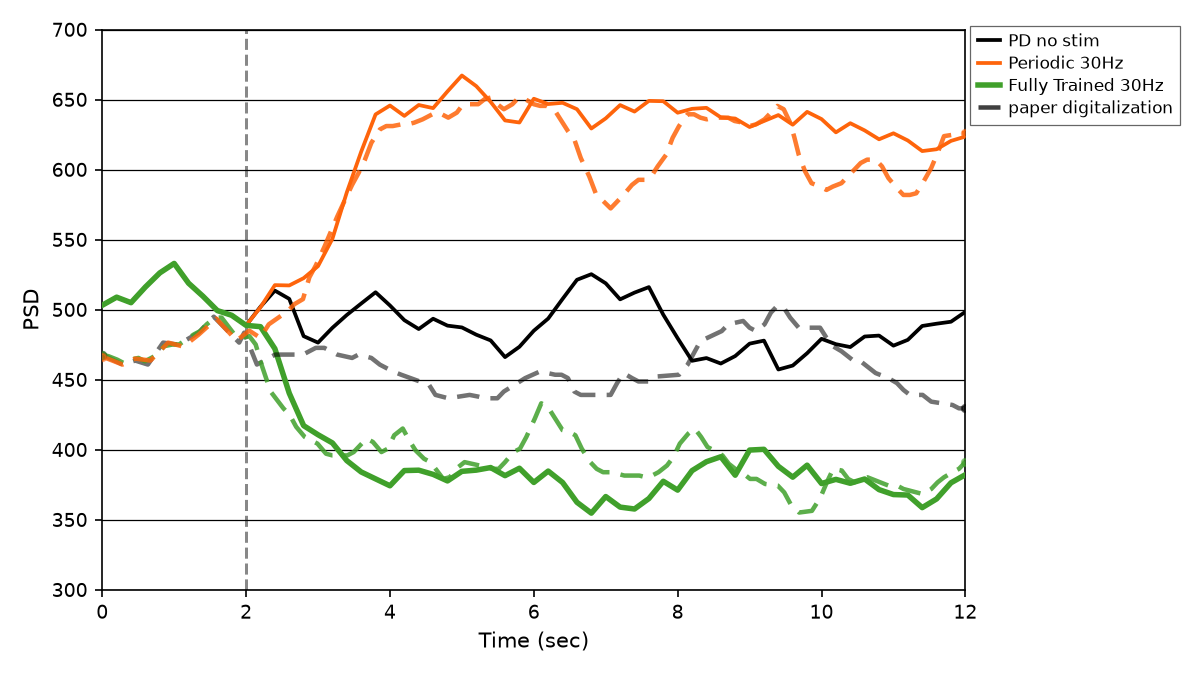
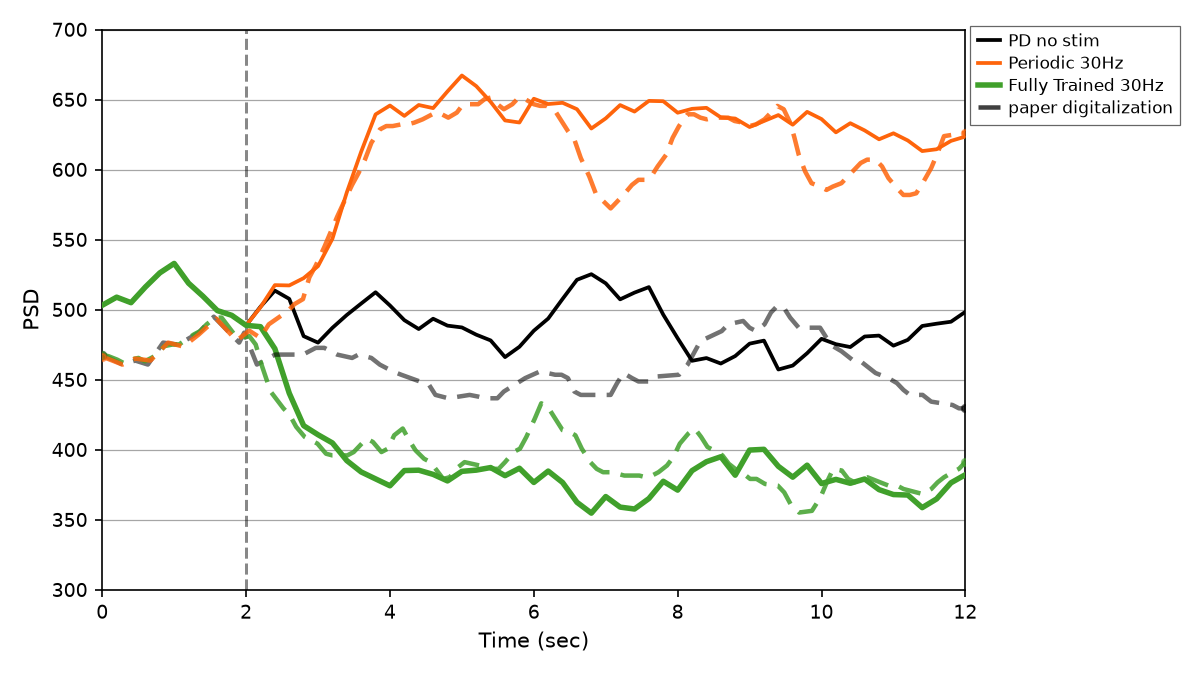
Re-render every panel with the grid back at its own alpha
Plot-only re-render from cached series after the themed-grid fix: new
light/dark PNG pairs for every panel, with the figure pages, trackers,
showcase, and README pointing at them. Gates and the digitized_v3
redraws (no grid) are unchanged.

diff --git a/docs/controllers/README.md b/docs/controllers/README.md
@@ -58,7 +58,7 @@ I built these from the paper text and figures. Mehregan and Ravivarapu have no r
 
 | Paper (digitized, my redraw) | My replication |
 |:-----:|:---------------:|
-| <picture><source media="(prefers-color-scheme: dark)" srcset="ddpg/figures/images/1b/digitized_v3_dark.png"><img src="ddpg/figures/images/1b/digitized_v3.png" alt="Digitized from Fig. 1b of Mehregan et al. (2024) (our redraw)"></picture> | <picture><source media="(prefers-color-scheme: dark)" srcset="ddpg/figures/images/1b/gpi_psd_v5_dark.png"><img src="ddpg/figures/images/1b/gpi_psd_v5.png" alt="Replication Fig. 1b"></picture> |
+| <picture><source media="(prefers-color-scheme: dark)" srcset="ddpg/figures/images/1b/digitized_v3_dark.png"><img src="ddpg/figures/images/1b/digitized_v3.png" alt="Digitized from Fig. 1b of Mehregan et al. (2024) (our redraw)"></picture> | <picture><source media="(prefers-color-scheme: dark)" srcset="ddpg/figures/images/1b/gpi_psd_v6_dark.png"><img src="ddpg/figures/images/1b/gpi_psd_v6.png" alt="Replication Fig. 1b"></picture> |
 
 **Notes:** Mean PSD over seeds 0-9, 10 s segment, native Python plant port of the Kumaravelu model.
 
@@ -72,7 +72,7 @@ I built these from the paper text and figures. Mehregan and Ravivarapu have no r
 
 | Paper (digitized, my redraw) | My replication |
 |:-----:|:---------------:|
-| <picture><source media="(prefers-color-scheme: dark)" srcset="ddpg/figures/images/2a/digitized_v3_dark.png"><img src="ddpg/figures/images/2a/digitized_v3.png" alt="Digitized from Fig. 2a of Mehregan et al. (2024) (our redraw)"></picture> | <picture><source media="(prefers-color-scheme: dark)" srcset="ddpg/figures/images/2a/beta_power_v3_dark.png"><img src="ddpg/figures/images/2a/beta_power_v3.png" alt="Replication Fig. 2a"></picture> |
+| <picture><source media="(prefers-color-scheme: dark)" srcset="ddpg/figures/images/2a/digitized_v3_dark.png"><img src="ddpg/figures/images/2a/digitized_v3.png" alt="Digitized from Fig. 2a of Mehregan et al. (2024) (our redraw)"></picture> | <picture><source media="(prefers-color-scheme: dark)" srcset="ddpg/figures/images/2a/beta_power_v4_dark.png"><img src="ddpg/figures/images/2a/beta_power_v4.png" alt="Replication Fig. 2a"></picture> |
 
 **Notes:** Seed 0; 14 s simulation with 2 s pre-roll (display window 0-12 s). Minor polish: blue floor slightly below the paper at late times.
 
@@ -86,7 +86,7 @@ I built these from the paper text and figures. Mehregan and Ravivarapu have no r
 
 | Paper (digitized, my redraw) | My replication |
 |:-----:|:---------------:|
-| <picture><source media="(prefers-color-scheme: dark)" srcset="ddpg/figures/images/2b/digitized_v3_dark.png"><img src="ddpg/figures/images/2b/digitized_v3.png" alt="Digitized from Fig. 2b of Mehregan et al. (2024) (our redraw)"></picture> | <picture><source media="(prefers-color-scheme: dark)" srcset="ddpg/figures/images/2b/error_index_v20_dark.png"><img src="ddpg/figures/images/2b/error_index_v20.png" alt="Replication Fig. 2b"></picture> |
+| <picture><source media="(prefers-color-scheme: dark)" srcset="ddpg/figures/images/2b/digitized_v3_dark.png"><img src="ddpg/figures/images/2b/digitized_v3.png" alt="Digitized from Fig. 2b of Mehregan et al. (2024) (our redraw)"></picture> | <picture><source media="(prefers-color-scheme: dark)" srcset="ddpg/figures/images/2b/error_index_v21_dark.png"><img src="ddpg/figures/images/2b/error_index_v21.png" alt="Replication Fig. 2b"></picture> |
 
 **Notes:** The Kumaravelu reference uses constant thalamic bias current instead of the So et al. (2012) SMC pulse drive the Error Index metric assumes. For this panel I restored **So-style SMC pulses into thalamus** (documented hybrid convention in [plant.md](https://github.com/nynxlabs/rl-adaptive-dbs/blob/main/docs/plant/README.md)). Seed 0. Minor polish: the red trace sits slightly low at $t = 12$ s.
 
@@ -100,7 +100,7 @@ I built these from the paper text and figures. Mehregan and Ravivarapu have no r
 
 | Paper (digitized, my redraw) | My replication |
 |:-----:|:---------------:|
-| <picture><source media="(prefers-color-scheme: dark)" srcset="ddpg/figures/images/4a/digitized_v3_dark.png"><img src="ddpg/figures/images/4a/digitized_v3.png" alt="Digitized from Fig. 4a of Mehregan et al. (2024) (our redraw)"></picture> | <picture><source media="(prefers-color-scheme: dark)" srcset="ddpg/figures/images/4a/training_beta_v48_dark.png"><img src="ddpg/figures/images/4a/training_beta_v48.png" alt="Replication Fig. 4a"></picture> |
+| <picture><source media="(prefers-color-scheme: dark)" srcset="ddpg/figures/images/4a/digitized_v3_dark.png"><img src="ddpg/figures/images/4a/digitized_v3.png" alt="Digitized from Fig. 4a of Mehregan et al. (2024) (our redraw)"></picture> | <picture><source media="(prefers-color-scheme: dark)" srcset="ddpg/figures/images/4a/training_beta_v49_dark.png"><img src="ddpg/figures/images/4a/training_beta_v49.png" alt="Replication Fig. 4a"></picture> |
 
 **Notes:** Seed 0, 300 steps (10 episodes x 30 steps), fixed-mean pulse-pattern action space, trained with the paper's Algorithm 1 as written. Raw per-step trace, no display smoothing. The first-episode mean is 0.444 vs the paper's 0.507 (0.43–0.55 across seeds); the late level is 0.365 vs 0.380.
 
@@ -114,7 +114,7 @@ I built these from the paper text and figures. Mehregan and Ravivarapu have no r
 
 | Paper (digitized, my redraw) | My replication |
 |:-----:|:---------------:|
-| <picture><source media="(prefers-color-scheme: dark)" srcset="ddpg/figures/images/4b/digitized_v3_dark.png"><img src="ddpg/figures/images/4b/digitized_v3.png" alt="Digitized from Fig. 4b of Mehregan et al. (2024) (our redraw)"></picture> | <picture><source media="(prefers-color-scheme: dark)" srcset="ddpg/figures/images/4b/training_reward_v53_dark.png"><img src="ddpg/figures/images/4b/training_reward_v53.png" alt="Replication Fig. 4b reward"></picture> <picture><source media="(prefers-color-scheme: dark)" srcset="ddpg/figures/images/4b/training_psd_v53_dark.png"><img src="ddpg/figures/images/4b/training_psd_v53.png" alt="Replication Fig. 4b PSD"></picture> |
+| <picture><source media="(prefers-color-scheme: dark)" srcset="ddpg/figures/images/4b/digitized_v3_dark.png"><img src="ddpg/figures/images/4b/digitized_v3.png" alt="Digitized from Fig. 4b of Mehregan et al. (2024) (our redraw)"></picture> | <picture><source media="(prefers-color-scheme: dark)" srcset="ddpg/figures/images/4b/training_reward_v54_dark.png"><img src="ddpg/figures/images/4b/training_reward_v54.png" alt="Replication Fig. 4b reward"></picture> <picture><source media="(prefers-color-scheme: dark)" srcset="ddpg/figures/images/4b/training_psd_v54_dark.png"><img src="ddpg/figures/images/4b/training_psd_v54.png" alt="Replication Fig. 4b PSD"></picture> |
 
 **Notes:** Same seed-0 training run as Fig. 4a. Episode-mean PSD falls from 0.444 to about 0.35 (paper: 0.498 to 0.368) while reward climbs from −81 to about zero (paper: −81 to −2.4). The paper does not report the training RNG seed; different seeds change wiggles and levels. I compare **trends**, not pointwise values.
 
@@ -128,7 +128,7 @@ I built these from the paper text and figures. Mehregan and Ravivarapu have no r
 
 | Paper (digitized, my redraw) | My replication |
 |:-----:|:---------------:|
-| <picture><source media="(prefers-color-scheme: dark)" srcset="ddpg/figures/images/5a/digitized_v3_dark.png"><img src="ddpg/figures/images/5a/digitized_v3.png" alt="Digitized from Fig. 5a of Mehregan et al. (2024) (our redraw)"></picture> | <picture><source media="(prefers-color-scheme: dark)" srcset="ddpg/figures/images/5a/efficacy_45hz_v28_dark.png"><img src="ddpg/figures/images/5a/efficacy_45hz_v28.png" alt="Replication Fig. 5a"></picture> |
+| <picture><source media="(prefers-color-scheme: dark)" srcset="ddpg/figures/images/5a/digitized_v3_dark.png"><img src="ddpg/figures/images/5a/digitized_v3.png" alt="Digitized from Fig. 5a of Mehregan et al. (2024) (our redraw)"></picture> | <picture><source media="(prefers-color-scheme: dark)" srcset="ddpg/figures/images/5a/efficacy_45hz_v29_dark.png"><img src="ddpg/figures/images/5a/efficacy_45hz_v29.png" alt="Replication Fig. 5a"></picture> |
 
 **Notes:** Evaluates the Fig. 4a checkpoint, the paper's one 45 Hz model, with the same trailing-window biomarker sampling as Fig. 2a. Seed 0. The policy settles on a burst pattern; late means: trained 339, periodic 45 Hz 299, no stimulation 486, 130 Hz cDBS 169.
 
@@ -142,7 +142,7 @@ I built these from the paper text and figures. Mehregan and Ravivarapu have no r
 
 | Paper (digitized, my redraw) | My replication |
 |:-----:|:---------------:|
-| <picture><source media="(prefers-color-scheme: dark)" srcset="ddpg/figures/images/5b/digitized_v3_dark.png"><img src="ddpg/figures/images/5b/digitized_v3.png" alt="Digitized from Fig. 5b of Mehregan et al. (2024) (our redraw)"></picture> | <picture><source media="(prefers-color-scheme: dark)" srcset="ddpg/figures/images/5b/efficacy_30hz_v29_dark.png"><img src="ddpg/figures/images/5b/efficacy_30hz_v29.png" alt="Replication Fig. 5b"></picture> |
+| <picture><source media="(prefers-color-scheme: dark)" srcset="ddpg/figures/images/5b/digitized_v3_dark.png"><img src="ddpg/figures/images/5b/digitized_v3.png" alt="Digitized from Fig. 5b of Mehregan et al. (2024) (our redraw)"></picture> | <picture><source media="(prefers-color-scheme: dark)" srcset="ddpg/figures/images/5b/efficacy_30hz_v30_dark.png"><img src="ddpg/figures/images/5b/efficacy_30hz_v30.png" alt="Replication Fig. 5b"></picture> |
 
 **Notes:** Trained with a burst-pattern alphabet (seed 0). The learned policy settles on a single constant pattern that happens to be a strong open-loop beta suppressor; that still satisfies this panel, but it is not the adaptive behavior the paper implies.
 
@@ -156,7 +156,7 @@ I built these from the paper text and figures. Mehregan and Ravivarapu have no r
 
 | Paper (digitized, my redraw) | My replication |
 |:-----:|:---------------:|
-| <picture><source media="(prefers-color-scheme: dark)" srcset="ddpg/figures/images/6a/digitized_v3_dark.png"><img src="ddpg/figures/images/6a/digitized_v3.png" alt="Digitized from Fig. 6a of Mehregan et al. (2024) (our redraw)"></picture> | <picture><source media="(prefers-color-scheme: dark)" srcset="ddpg/figures/images/6a/ptq_qat_45hz_v73_dark.png"><img src="ddpg/figures/images/6a/ptq_qat_45hz_v73.png" alt="Replication Fig. 6a"></picture> |
+| <picture><source media="(prefers-color-scheme: dark)" srcset="ddpg/figures/images/6a/digitized_v3_dark.png"><img src="ddpg/figures/images/6a/digitized_v3.png" alt="Digitized from Fig. 6a of Mehregan et al. (2024) (our redraw)"></picture> | <picture><source media="(prefers-color-scheme: dark)" srcset="ddpg/figures/images/6a/ptq_qat_45hz_v74_dark.png"><img src="ddpg/figures/images/6a/ptq_qat_45hz_v74.png" alt="Replication Fig. 6a"></picture> |
 
 **Status:** Fail. fp32 and both PTQ policies reach the same suppressed level and pass every fp32 / PTQ gate. QAT fails: over 15 training seeds most QAT policies suppress beta instead of staying high, because 10 episodes of int8 QAT don't converge on this action space. Details in the [Mehregan tracker](https://github.com/nynxlabs/rl-adaptive-dbs/blob/main/docs/controllers/ddpg/README.md).
 
@@ -170,7 +170,7 @@ I built these from the paper text and figures. Mehregan and Ravivarapu have no r
 
 | Paper (digitized, my redraw) | My replication |
 |:-----:|:---------------:|
-| <picture><source media="(prefers-color-scheme: dark)" srcset="ddpg/figures/images/6b/digitized_v3_dark.png"><img src="ddpg/figures/images/6b/digitized_v3.png" alt="Digitized from Fig. 6b of Mehregan et al. (2024) (our redraw)"></picture> | <picture><source media="(prefers-color-scheme: dark)" srcset="ddpg/figures/images/6b/ptq_qat_30hz_v51_dark.png"><img src="ddpg/figures/images/6b/ptq_qat_30hz_v51.png" alt="Replication Fig. 6b"></picture> |
+| <picture><source media="(prefers-color-scheme: dark)" srcset="ddpg/figures/images/6b/digitized_v3_dark.png"><img src="ddpg/figures/images/6b/digitized_v3.png" alt="Digitized from Fig. 6b of Mehregan et al. (2024) (our redraw)"></picture> | <picture><source media="(prefers-color-scheme: dark)" srcset="ddpg/figures/images/6b/ptq_qat_30hz_v52_dark.png"><img src="ddpg/figures/images/6b/ptq_qat_30hz_v52.png" alt="Replication Fig. 6b"></picture> |
 
 **Status:** Fail on QAT, for the same reason as Fig. 6a; fp32 and PTQ pass.
 
@@ -188,7 +188,7 @@ I built these from the paper text and figures. Mehregan and Ravivarapu have no r
 
 | Paper (digitized, my redraw) | My replication |
 |:-----:|:---------------:|
-| <picture><source media="(prefers-color-scheme: dark)" srcset="snn/figures/images/3/digitized_v3_dark.png"><img src="snn/figures/images/3/digitized_v3.png" alt="Digitized from Fig. 3 of Nguyen et al. (2025) (our redraw)"></picture> | <picture><source media="(prefers-color-scheme: dark)" srcset="snn/figures/images/3/alpha_beta_dist_v26_dark.png"><img src="snn/figures/images/3/alpha_beta_dist_v26.png" alt="Replication Fig. 3"></picture> |
+| <picture><source media="(prefers-color-scheme: dark)" srcset="snn/figures/images/3/digitized_v3_dark.png"><img src="snn/figures/images/3/digitized_v3.png" alt="Digitized from Fig. 3 of Nguyen et al. (2025) (our redraw)"></picture> | <picture><source media="(prefers-color-scheme: dark)" srcset="snn/figures/images/3/alpha_beta_dist_v27_dark.png"><img src="snn/figures/images/3/alpha_beta_dist_v27.png" alt="Replication Fig. 3"></picture> |
 
 **Notes:** PD On mean about 291 vs PD Off about 220 (arbitrary PSD units).
 
@@ -202,7 +202,7 @@ I built these from the paper text and figures. Mehregan and Ravivarapu have no r
 
 | Paper (digitized, my redraw) | My replication |
 |:-----:|:---------------:|
-| <picture><source media="(prefers-color-scheme: dark)" srcset="snn/figures/images/4/digitized_v3_dark.png"><img src="snn/figures/images/4/digitized_v3.png" alt="Digitized from Fig. 4 of Nguyen et al. (2025) (our redraw)"></picture> | <picture><source media="(prefers-color-scheme: dark)" srcset="snn/figures/images/4/training_reward_length_v167_dark.png"><img src="snn/figures/images/4/training_reward_length_v167.png" alt="Replication Fig. 4"></picture> |
+| <picture><source media="(prefers-color-scheme: dark)" srcset="snn/figures/images/4/digitized_v3_dark.png"><img src="snn/figures/images/4/digitized_v3.png" alt="Digitized from Fig. 4 of Nguyen et al. (2025) (our redraw)"></picture> | <picture><source media="(prefers-color-scheme: dark)" srcset="snn/figures/images/4/training_reward_length_v168_dark.png"><img src="snn/figures/images/4/training_reward_length_v168.png" alt="Replication Fig. 4"></picture> |
 
 **Notes:** Seed 1; 15 of 26 seeds pass every Fig. 4 gate. One labelled plant deviation: DBS current reaches the STN neurons with a distance-based falloff (ρ = 3) instead of driving all ten at full strength as the Kumaravelu model does. Without it, pulse width has no effect on our plant and the energy curve in Fig. 5 falls where the paper's rises.
 
@@ -216,7 +216,7 @@ I built these from the paper text and figures. Mehregan and Ravivarapu have no r
 
 | Paper (digitized, my redraw) | My replication |
 |:-----:|:---------------:|
-| <picture><source media="(prefers-color-scheme: dark)" srcset="snn/figures/images/5/digitized_v3_dark.png"><img src="snn/figures/images/5/digitized_v3.png" alt="Digitized from Fig. 5 of Nguyen et al. (2025) (our redraw)"></picture> | <picture><source media="(prefers-color-scheme: dark)" srcset="snn/figures/images/5/spikes_energy_v66_dark.png"><img src="snn/figures/images/5/spikes_energy_v66.png" alt="Replication Fig. 5"></picture> |
+| <picture><source media="(prefers-color-scheme: dark)" srcset="snn/figures/images/5/digitized_v3_dark.png"><img src="snn/figures/images/5/digitized_v3.png" alt="Digitized from Fig. 5 of Nguyen et al. (2025) (our redraw)"></picture> | <picture><source media="(prefers-color-scheme: dark)" srcset="snn/figures/images/5/spikes_energy_v67_dark.png"><img src="snn/figures/images/5/spikes_energy_v67.png" alt="Replication Fig. 5"></picture> |
 
 **Notes:** The spike count leaves out the stimulated STN and the GPi, which follow the DBS pulses. Late energy (~1,440) sits below the paper's ~2,035 because our agent settles at ~65 Hz / 0.85 ms rather than the paper's ~81 Hz / 1.13 ms.
 
@@ -230,7 +230,7 @@ I built these from the paper text and figures. Mehregan and Ravivarapu have no r
 
 | Paper (digitized, my redraw) | My replication |
 |:-----:|:---------------:|
-| <picture><source media="(prefers-color-scheme: dark)" srcset="snn/figures/images/6/digitized_v3_dark.png"><img src="snn/figures/images/6/digitized_v3.png" alt="Digitized from Fig. 6 of Nguyen et al. (2025) (our redraw)"></picture> | <picture><source media="(prefers-color-scheme: dark)" srcset="snn/figures/images/6/alpha_beta_params_v22_dark.png"><img src="snn/figures/images/6/alpha_beta_params_v22.png" alt="Replication Fig. 6"></picture> |
+| <picture><source media="(prefers-color-scheme: dark)" srcset="snn/figures/images/6/digitized_v3_dark.png"><img src="snn/figures/images/6/digitized_v3.png" alt="Digitized from Fig. 6 of Nguyen et al. (2025) (our redraw)"></picture> | <picture><source media="(prefers-color-scheme: dark)" srcset="snn/figures/images/6/alpha_beta_params_v23_dark.png"><img src="snn/figures/images/6/alpha_beta_params_v23.png" alt="Replication Fig. 6"></picture> |
 
 **Notes:** Late pulse width (~0.85 ms vs 1.13) and frequency (~65 Hz vs 81) end below the paper's; on our plant α–β stops improving beyond 0.5–0.6 ms, so the agent has no reason to go further. Pulse width and amplitude are reported, not gated.
 
@@ -244,7 +244,7 @@ I built these from the paper text and figures. Mehregan and Ravivarapu have no r
 
 | Paper (digitized, my redraw) | My replication |
 |:-----:|:---------------:|
-| <picture><source media="(prefers-color-scheme: dark)" srcset="snn/figures/images/7/digitized_v3_dark.png"><img src="snn/figures/images/7/digitized_v3.png" alt="Digitized from Fig. 7 of Nguyen et al. (2025) (our redraw)"></picture> | <picture><source media="(prefers-color-scheme: dark)" srcset="snn/figures/images/7/eval_50ep_v33_dark.png"><img src="snn/figures/images/7/eval_50ep_v33.png" alt="Replication Fig. 7"></picture> |
+| <picture><source media="(prefers-color-scheme: dark)" srcset="snn/figures/images/7/digitized_v3_dark.png"><img src="snn/figures/images/7/digitized_v3.png" alt="Digitized from Fig. 7 of Nguyen et al. (2025) (our redraw)"></picture> | <picture><source media="(prefers-color-scheme: dark)" srcset="snn/figures/images/7/eval_50ep_v34_dark.png"><img src="snn/figures/images/7/eval_50ep_v34.png" alt="Replication Fig. 7"></picture> |
 
 **Notes:** 13 of 14 gates pass: the peak comes at step 2 as in the paper, and the mean-trace Pearson $r$ is 0.88. Still open: step 0 reads 197 against the paper's 153 (gate 115–191). The peak (213 vs 278) and late level (128 vs 153) sit low but inside their gates.
 
@@ -264,7 +264,7 @@ I built these from the paper text and figures. Mehregan and Ravivarapu have no r
 
 | Paper (arXiv version, CC BY 4.0) | My replication |
 |:-----:|:---------------:|
-| ![Fig. 4a of Ravivarapu et al. (arXiv:2507.06326v1, CC BY 4.0)](sea-dbs/figures/images/4a/arxiv_v1.png) | <picture><source media="(prefers-color-scheme: dark)" srcset="sea-dbs/figures/images/4a/training_psd_v86_dark.png"><img src="sea-dbs/figures/images/4a/training_psd_v86.png" alt="Replication Fig. 4a"></picture> |
+| ![Fig. 4a of Ravivarapu et al. (arXiv:2507.06326v1, CC BY 4.0)](sea-dbs/figures/images/4a/arxiv_v1.png) | <picture><source media="(prefers-color-scheme: dark)" srcset="sea-dbs/figures/images/4a/training_psd_v87_dark.png"><img src="sea-dbs/figures/images/4a/training_psd_v87.png" alt="Replication Fig. 4a"></picture> |
 
 **Notes:** Displayed with a 10-episode rolling mean; gates run on the raw per-episode values.
 
@@ -276,7 +276,7 @@ I built these from the paper text and figures. Mehregan and Ravivarapu have no r
 
 | Paper (arXiv version, CC BY 4.0) | My replication |
 |:-----:|:---------------:|
-| ![Fig. 4b of Ravivarapu et al. (arXiv:2507.06326v1, CC BY 4.0)](sea-dbs/figures/images/4b/arxiv_v1.png) | <picture><source media="(prefers-color-scheme: dark)" srcset="sea-dbs/figures/images/4b/training_reward_v24_dark.png"><img src="sea-dbs/figures/images/4b/training_reward_v24.png" alt="Replication Fig. 4b"></picture> |
+| ![Fig. 4b of Ravivarapu et al. (arXiv:2507.06326v1, CC BY 4.0)](sea-dbs/figures/images/4b/arxiv_v1.png) | <picture><source media="(prefers-color-scheme: dark)" srcset="sea-dbs/figures/images/4b/training_reward_v25_dark.png"><img src="sea-dbs/figures/images/4b/training_reward_v25.png" alt="Replication Fig. 4b"></picture> |
 
 <div style="page-break-after: always;"></div>
 
@@ -288,8 +288,8 @@ I built these from the paper text and figures. Mehregan and Ravivarapu have no r
 
 | Paper (arXiv version, CC BY 4.0) | My replication |
 |:-----:|:---------------:|
-| ![Fig. 5a of Ravivarapu et al. (arXiv:2507.06326v1, CC BY 4.0)](sea-dbs/figures/images/5a/arxiv_v1.png) | <picture><source media="(prefers-color-scheme: dark)" srcset="sea-dbs/figures/images/5a/inference_50hz_v28_dark.png"><img src="sea-dbs/figures/images/5a/inference_50hz_v28.png" alt="Replication Fig. 5a"></picture> |
-| ![Fig. 5b of Ravivarapu et al. (arXiv:2507.06326v1, CC BY 4.0)](sea-dbs/figures/images/5b/arxiv_v1.png) | <picture><source media="(prefers-color-scheme: dark)" srcset="sea-dbs/figures/images/5b/inference_30hz_v28_dark.png"><img src="sea-dbs/figures/images/5b/inference_30hz_v28.png" alt="Replication Fig. 5b"></picture> |
+| ![Fig. 5a of Ravivarapu et al. (arXiv:2507.06326v1, CC BY 4.0)](sea-dbs/figures/images/5a/arxiv_v1.png) | <picture><source media="(prefers-color-scheme: dark)" srcset="sea-dbs/figures/images/5a/inference_50hz_v29_dark.png"><img src="sea-dbs/figures/images/5a/inference_50hz_v29.png" alt="Replication Fig. 5a"></picture> |
+| ![Fig. 5b of Ravivarapu et al. (arXiv:2507.06326v1, CC BY 4.0)](sea-dbs/figures/images/5b/arxiv_v1.png) | <picture><source media="(prefers-color-scheme: dark)" srcset="sea-dbs/figures/images/5b/inference_30hz_v29_dark.png"><img src="sea-dbs/figures/images/5b/inference_30hz_v29.png" alt="Replication Fig. 5b"></picture> |
 
 ---
 
@@ -299,7 +299,7 @@ I built these from the paper text and figures. Mehregan and Ravivarapu have no r
 
 | Paper (arXiv version, CC BY 4.0) | My replication |
 |:-----:|:---------------:|
-| ![Fig. 6 of Ravivarapu et al. (arXiv:2507.06326v1, CC BY 4.0)](sea-dbs/figures/images/6/arxiv_v1.png) | <picture><source media="(prefers-color-scheme: dark)" srcset="sea-dbs/figures/images/6/ptq_fp16_50hz_v28_dark.png"><img src="sea-dbs/figures/images/6/ptq_fp16_50hz_v28.png" alt="Replication Fig. 6"></picture> |
+| ![Fig. 6 of Ravivarapu et al. (arXiv:2507.06326v1, CC BY 4.0)](sea-dbs/figures/images/6/arxiv_v1.png) | <picture><source media="(prefers-color-scheme: dark)" srcset="sea-dbs/figures/images/6/ptq_fp16_50hz_v29_dark.png"><img src="sea-dbs/figures/images/6/ptq_fp16_50hz_v29.png" alt="Replication Fig. 6"></picture> |
 
 **Notes:** The SEA-DBS networks shrink from 52 KB to 26 KB (the paper reports about 65 MB to 33 MB for its larger network); the halving is what matters here.
 
@@ -311,7 +311,7 @@ I built these from the paper text and figures. Mehregan and Ravivarapu have no r
 
 | Paper (arXiv version, CC BY 4.0) | My replication |
 |:-----:|:---------------:|
-| ![Fig. 7 of Ravivarapu et al. (arXiv:2507.06326v1, CC BY 4.0)](sea-dbs/figures/images/7/arxiv_v1.png) | <picture><source media="(prefers-color-scheme: dark)" srcset="sea-dbs/figures/images/7/ablation_psd_v33_dark.png"><img src="sea-dbs/figures/images/7/ablation_psd_v33.png" alt="Replication Fig. 7"></picture> |
+| ![Fig. 7 of Ravivarapu et al. (arXiv:2507.06326v1, CC BY 4.0)](sea-dbs/figures/images/7/arxiv_v1.png) | <picture><source media="(prefers-color-scheme: dark)" srcset="sea-dbs/figures/images/7/ablation_psd_v34_dark.png"><img src="sea-dbs/figures/images/7/ablation_psd_v34.png" alt="Replication Fig. 7"></picture> |
 
 <div style="page-break-after: always;"></div>
 

diff --git a/docs/controllers/sea-dbs/README.md b/docs/controllers/sea-dbs/README.md
@@ -45,13 +45,13 @@ No panel regressed. SEA-DBS learns gradually now, but every actor still stimulat
 <!-- summary:start -->
 | Panel | Description | Status |
 |-------|-------------|--------|
-| Fig 4a | Training PSD vs episode | Fail — 18/28 gates pass (rep v86) |
-| Fig 4b | Training reward vs episode | Fail — 16/20 gates pass (rep v24) |
-| Fig 5a | Inference @ 50 Hz | Fail — 12/20 gates pass (rep v28) |
-| Fig 5b | Inference @ 30 Hz | Fail — 6/22 gates pass (rep v28) |
-| Fig 6 | FP16 PTQ @ 50 Hz | Fail — 10/15 gates pass (rep v28) |
-| Fig 7 | Ablation (Baseline / +PM / +GS / SEA-DBS) | Fail — 7/17 gates pass (rep v33) |
-| Table II | Avg PSD with the plant reseeded every n steps | Fail — 2/6 gates pass (rep v5) |
+| Fig 4a | Training PSD vs episode | Fail — 18/28 gates pass (rep v87) |
+| Fig 4b | Training reward vs episode | Fail — 16/20 gates pass (rep v25) |
+| Fig 5a | Inference @ 50 Hz | Fail — 12/20 gates pass (rep v29) |
+| Fig 5b | Inference @ 30 Hz | Fail — 6/22 gates pass (rep v29) |
+| Fig 6 | FP16 PTQ @ 50 Hz | Fail — 10/15 gates pass (rep v29) |
+| Fig 7 | Ablation (Baseline / +PM / +GS / SEA-DBS) | Fail — 7/17 gates pass (rep v34) |
+| Table II | Avg PSD with the plant reseeded every n steps | Fail — 2/6 gates pass (rep v6) |
 <!-- summary:end -->
 
 Replication PNGs: `docs/controllers/sea-dbs/figures/images/`. JSON caches: `artifacts/figures/papers/`. Paper references: `images/<panel>/arxiv_v*.png`, crops of the figures in the authors' arXiv version — Ravivarapu, Bagwe, Yuan, Yu, Zhang, *Sample-Efficient Reinforcement Learning Controller for Deep Brain Stimulation in Parkinson's Disease*, arXiv:2507.06326v1, © the authors, [CC BY 4.0](https://creativecommons.org/licenses/by/4.0/); cropped, otherwise unchanged ([LICENSING.md](../../../LICENSING.md#figures-from-the-replicated-papers)). A local, gitignored `paper.png` crop of the published figure for the digitization tools comes from `scripts/digitization/paper_crops.py build`. Controller spec: [method.md](method.md). Schematics (paper Figs 1, 3) are **out of scope**. Fig 2 (reward curve) is optional polish, not a gate.

diff --git a/README.md b/README.md
@@ -14,7 +14,7 @@ Every paper panel is scored against automated gates, and a panel counts as repli
 
 | Mehregan Fig. 5a: post-training efficacy at 45 Hz (pass) | Nguyen Fig. 4: training reward and episode length (pass) | Ravivarapu Fig. 4a: SEA-DBS vs baseline (open, 18 of 28 gates) |
 |:---:|:---:|:---:|
-| <picture><source media="(prefers-color-scheme: dark)" srcset="docs/controllers/ddpg/figures/images/5a/efficacy_45hz_v28_dark.png"><img src="docs/controllers/ddpg/figures/images/5a/efficacy_45hz_v28.png" alt="Mehregan Fig. 5a replication" width="280"></picture> | <picture><source media="(prefers-color-scheme: dark)" srcset="docs/controllers/snn/figures/images/4/training_reward_length_v167_dark.png"><img src="docs/controllers/snn/figures/images/4/training_reward_length_v167.png" alt="Nguyen Fig. 4 replication" width="280"></picture> | <picture><source media="(prefers-color-scheme: dark)" srcset="docs/controllers/sea-dbs/figures/images/4a/training_psd_v86_dark.png"><img src="docs/controllers/sea-dbs/figures/images/4a/training_psd_v86.png" alt="Ravivarapu Fig. 4a replication" width="280"></picture> |
+| <picture><source media="(prefers-color-scheme: dark)" srcset="docs/controllers/ddpg/figures/images/5a/efficacy_45hz_v29_dark.png"><img src="docs/controllers/ddpg/figures/images/5a/efficacy_45hz_v29.png" alt="Mehregan Fig. 5a replication" width="280"></picture> | <picture><source media="(prefers-color-scheme: dark)" srcset="docs/controllers/snn/figures/images/4/training_reward_length_v168_dark.png"><img src="docs/controllers/snn/figures/images/4/training_reward_length_v168.png" alt="Nguyen Fig. 4 replication" width="280"></picture> | <picture><source media="(prefers-color-scheme: dark)" srcset="docs/controllers/sea-dbs/figures/images/4a/training_psd_v87_dark.png"><img src="docs/controllers/sea-dbs/figures/images/4a/training_psd_v87.png" alt="Ravivarapu Fig. 4a replication" width="280"></picture> |
 
 > **Status:** active research code. Docs and scripts are still being consolidated, so expect some redundancy.
 

diff --git a/docs/controllers/ddpg/README.md b/docs/controllers/ddpg/README.md
@@ -9,15 +9,15 @@ Method: [method.md](method.md) (paper-accurate DDPG spec) · Extensions beyond t
 <!-- summary:start -->
 | Panel | Description | Status |
 |-------|-------------|--------|
-| Fig 1b | GPi PSD | Fail (`healthy_pd_ratio_near_paper`, rep v5) |
-| Fig 2a | GPi $P_\beta$ time series | Pass (rep v3) |
-| Fig 2b | Error Index time series | Pass (rep v20) |
-| Fig 4a | Training $P_\beta$ vs step | Fail (`early_swing_near_paper`, paper Alg. 1, rep v48) |
-| Fig 4b | Training reward vs episode | Fail (`early_reward_near_paper`, paired to 4a, rep v53) |
-| Fig 5a | Post-train efficacy @ 45 Hz | Pass (closed loop, Fig 4a model, rep v28) |
-| Fig 5b | Post-train efficacy @ 30 Hz | Pass (closed loop, burst alphabet, rep v29) |
-| Fig 6a | PTQ / QAT @ 45 Hz | Fail (`qat_elevated_vs_fp32`, closed loop, int8 QAT, rep v73) |
-| Fig 6b | PTQ / QAT @ 30 Hz | Fail (`qat_elevated_vs_fp32`, closed loop, int8 QAT, rep v51) |
+| Fig 1b | GPi PSD | Fail (`healthy_pd_ratio_near_paper`, rep v6) |
+| Fig 2a | GPi $P_\beta$ time series | Pass (rep v4) |
+| Fig 2b | Error Index time series | Pass (rep v21) |
+| Fig 4a | Training $P_\beta$ vs step | Fail (`early_swing_near_paper`, paper Alg. 1, rep v49) |
+| Fig 4b | Training reward vs episode | Fail (`early_reward_near_paper`, paired to 4a, rep v54) |
+| Fig 5a | Post-train efficacy @ 45 Hz | Pass (closed loop, Fig 4a model, rep v29) |
+| Fig 5b | Post-train efficacy @ 30 Hz | Pass (closed loop, burst alphabet, rep v30) |
+| Fig 6a | PTQ / QAT @ 45 Hz | Fail (`qat_elevated_vs_fp32`, closed loop, int8 QAT, rep v74) |
+| Fig 6b | PTQ / QAT @ 30 Hz | Fail (`qat_elevated_vs_fp32`, closed loop, int8 QAT, rep v52) |
 <!-- summary:end -->
 
 ## Figures

diff --git a/docs/controllers/sea-dbs/figures/4a.md b/docs/controllers/sea-dbs/figures/4a.md
@@ -35,15 +35,15 @@ Paper curve is **smooth in the first ~15 episodes** (no single-episode spike to 
 
 ### Replication
 
-<picture><source media="(prefers-color-scheme: dark)" srcset="images/4a/training_psd_v86_dark.png"><img src="images/4a/training_psd_v86.png" alt="Replication Fig 4a"></picture>
+<picture><source media="(prefers-color-scheme: dark)" srcset="images/4a/training_psd_v87_dark.png"><img src="images/4a/training_psd_v87.png" alt="Replication Fig 4a"></picture>
 
 <!-- caption-4a:start -->
-**Caption:** Training mean GPi beta PSD vs episode (seed 0); shape_pass=False pass=False; Baseline vs full SEA-DBS (PM+GS); one shared training config; display roll10 (gates on raw). (v86)
+**Caption:** Training mean GPi beta PSD vs episode (seed 0); shape_pass=False pass=False; Baseline vs full SEA-DBS (PM+GS); one shared training config; display roll10 (gates on raw). (v87)
 
 **Manifest:** `artifacts/figures/papers/ravivarapu/4/manifest_4a.json`
 <!-- caption-4a:end -->
 
-**Status:** Fail (rep v86) — see manifest gates (`shape_pass` / `pass`). Manifest `artifacts/figures/papers/ravivarapu/4/manifest_4a.json`.
+**Status:** Fail (rep v87) — see manifest gates (`shape_pass` / `pass`). Manifest `artifacts/figures/papers/ravivarapu/4/manifest_4a.json`.
 
 **Gap (honest; rep v83):** SEA-DBS stimulates every step by ep ~40 and sits on the full-stimulation floor (late 0.366 vs paper 0.340); the Baseline's late level is close (0.374 vs 0.368). Both start at 0.39–0.40, not the paper's untreated 0.44–0.45 (random init stimulates half the time), and the late gap is 0.008 vs the paper's 0.028 — [4a.md](4a.md) § Honest replication, § Open-question probes.
 

diff --git a/docs/controllers/snn/figures/4.md b/docs/controllers/snn/figures/4.md
@@ -22,15 +22,15 @@ Episode **rewards** (a) and **lengths** (b) over **500** training episodes. Init
 
 ### Replication (**v165**, passes every gate)
 
-<picture><source media="(prefers-color-scheme: dark)" srcset="images/4/training_reward_length_v167_dark.png"><img src="images/4/training_reward_length_v167.png" alt="Replication Fig 4"></picture>
+<picture><source media="(prefers-color-scheme: dark)" srcset="images/4/training_reward_length_v168_dark.png"><img src="images/4/training_reward_length_v168.png" alt="Replication Fig 4"></picture>
 
 <!-- caption-4:start -->
-**Caption:** DSQN train 500 ep, seed=0; reward ep150+=-9748, len ep150+=9.7; shape_pass=True pass=True (reward shape=True full=True, length shape=True full=True) (v167)
+**Caption:** DSQN train 500 ep, seed=0; reward ep150+=-9748, len ep150+=9.7; shape_pass=True pass=True (reward shape=True full=True, length shape=True full=True) (v168)
 
 **Manifest:** `artifacts/figures/papers/nguyen/4/manifest.json`
 <!-- caption-4:end -->
 
-**Status:** Pass — see manifest gates (`training_reward_length_v167.png`).
+**Status:** Pass — see manifest gates (`training_reward_length_v168.png`).
 
 **v165 (Oct 18 2026): Kumaravelu's coupling (ρ = 1).** With the maintainer's OK the recipe drops the Oct 11 distance-based STN recruitment (ρ = 3) and gives every STN neuron the full DBS current, as Kumaravelu's model and the authors' published simulator do. Training still redraws the wiring every 100 ms step. Seed 0 passes every Fig 4 gate (late length 9.6, 81 Hz), as 3 of 8 seeds did in the candidate batch. Why: [docs/controllers/snn/figures/4.md](4.md) § Wiring as a setting.
 

diff --git a/docs/controllers/sea-dbs/figures/6.md b/docs/controllers/sea-dbs/figures/6.md
@@ -29,15 +29,15 @@ Paper claim: quantized SEA-DBS **tracks** fp32 PSD reduction and still **beats**
 
 ### Replication
 
-<picture><source media="(prefers-color-scheme: dark)" srcset="images/6/ptq_fp16_50hz_v28_dark.png"><img src="images/6/ptq_fp16_50hz_v28.png" alt="Replication Fig 6"></picture>
+<picture><source media="(prefers-color-scheme: dark)" srcset="images/6/ptq_fp16_50hz_v29_dark.png"><img src="images/6/ptq_fp16_50hz_v29.png" alt="Replication Fig 6"></picture>
 
 <!-- caption-6:start -->
-**Caption:** FP16 PTQ inference GPi beta PSD vs step @ 50 Hz (seed 0, argmax actions, plain .half() cast); pass=False; Baseline/SEA-DBS fp32 + PTQ; SEA-DBS networks 2 KB → 1 KB. (v28)
+**Caption:** FP16 PTQ inference GPi beta PSD vs step @ 50 Hz (seed 0, argmax actions, plain .half() cast); pass=False; Baseline/SEA-DBS fp32 + PTQ; SEA-DBS networks 2 KB → 1 KB. (v29)
 
 **Manifest:** `artifacts/figures/papers/ravivarapu/6/manifest.json`
 <!-- caption-6:end -->
 
-**Status:** Fail (rep v28) (`early_mae_baseline, sea_below_baseline, sea_ptq_below_baseline, baseline_tail_near_paper`). Manifest `artifacts/figures/papers/ravivarapu/6/manifest.json`.
+**Status:** Fail (rep v29) (`early_mae_baseline, sea_below_baseline, sea_ptq_below_baseline, baseline_tail_near_paper`). Manifest `artifacts/figures/papers/ravivarapu/6/manifest.json`.
 
 Replication PNGs overlay digitized paper curves from
 `artifacts/figures/papers/ravivarapu/paper_digitization/curves_fig6.json`

diff --git a/docs/controllers/snn/figures/7.md b/docs/controllers/snn/figures/7.md
@@ -47,15 +47,15 @@ Earlier versions of this note gave the start as ~160.4; that was a coarser readi
 
 ### Replication
 
-<picture><source media="(prefers-color-scheme: dark)" srcset="images/7/eval_50ep_v33_dark.png"><img src="images/7/eval_50ep_v33.png" alt="Replication Fig 7"></picture>
+<picture><source media="(prefers-color-scheme: dark)" srcset="images/7/eval_50ep_v34_dark.png"><img src="images/7/eval_50ep_v34.png" alt="Replication Fig 7"></picture>
 
 <!-- caption-7:start -->
-**Caption:** eval 50×26 steps; mean αβ=171.0; pass=True (v33)
+**Caption:** eval 50×26 steps; mean αβ=171.0; pass=True (v34)
 
 **Manifest:** `artifacts/figures/papers/nguyen/7/manifest.json`
 <!-- caption-7:end -->
 
-**Status:** Pass — see manifest gates (`eval_50ep_v33.png`).
+**Status:** Pass — see manifest gates (`eval_50ep_v34.png`).
 
 **v31 (Oct 18 2026): passes every gate.** Adopted with the maintainer's OK. The checkpoint is the ρ = 1 Fig 4 v165 train. Each eval episode is a fresh network that keeps its wiring for the whole episode (`plant_fixed_network` in the eval only); training redraws the wiring every step. §IV only says the eval used "a random seed for each episode to emulate patient-specific neural responses". Steps 0 / peak / mid / late = 139 / 268 / 158 / 152 against the paper's 153 / 278 / 161 / 152, Pearson $r$ = 1.00. `--training-plant` reproduces the v30-style eval on the training plant. Details: [4.md](4.md) § Wiring as a setting.
 

diff --git a/docs/controllers/sea-dbs/figures/table2.md b/docs/controllers/sea-dbs/figures/table2.md
@@ -12,15 +12,15 @@
 
 ### Replication
 
-<picture><source media="(prefers-color-scheme: dark)" srcset="images/table2/avg_psd_v5_dark.png"><img src="images/table2/avg_psd_v5.png" alt="Replication Table II"></picture>
+<picture><source media="(prefers-color-scheme: dark)" srcset="images/table2/avg_psd_v6_dark.png"><img src="images/table2/avg_psd_v6.png" alt="Replication Table II"></picture>
 
 <!-- caption-t2:start -->
-**Caption:** Table II avg PSD (×1000 normalized) with the plant reseeded every n steps; plant seeds 0–29 once per n (30 blocks of n steps), argmax rollout @ 50 Hz on the Fig 4 checkpoints; pass=False; bars ours, dashes paper. (v5)
+**Caption:** Table II avg PSD (×1000 normalized) with the plant reseeded every n steps; plant seeds 0–29 once per n (30 blocks of n steps), argmax rollout @ 50 Hz on the Fig 4 checkpoints; pass=False; bars ours, dashes paper. (v6)
 
 **Manifest:** `artifacts/figures/papers/ravivarapu/table2/manifest.json`
 <!-- caption-t2:end -->
 
-**Status:** Fail (rep v5) (`sea_below_baseline_every_n, gap_near_paper_every_n, baseline_near_paper_every_n, sea_near_paper_every_n`). Manifest `artifacts/figures/papers/ravivarapu/table2/manifest.json`.
+**Status:** Fail (rep v6) (`sea_below_baseline_every_n, gap_near_paper_every_n, baseline_near_paper_every_n, sea_near_paper_every_n`). Manifest `artifacts/figures/papers/ravivarapu/table2/manifest.json`.
 
 ## How to reproduce
 

diff --git a/docs/controllers/ddpg/figures/4b.md b/docs/controllers/ddpg/figures/4b.md
@@ -36,14 +36,14 @@ Per episode (0–9): reward −81.3, −77.4, −42.9, −55.3, −25.7, −6.0,
 
 **Reward vs episode**
 
-<picture><source media="(prefers-color-scheme: dark)" srcset="images/4b/training_reward_v53_dark.png"><img src="images/4b/training_reward_v53.png" alt="Replication Fig 4b reward"></picture>
+<picture><source media="(prefers-color-scheme: dark)" srcset="images/4b/training_reward_v54_dark.png"><img src="images/4b/training_reward_v54.png" alt="Replication Fig 4b reward"></picture>
 
 **Episode-mean PSD vs episode**
 
-<picture><source media="(prefers-color-scheme: dark)" srcset="images/4b/training_psd_v53_dark.png"><img src="images/4b/training_psd_v53.png" alt="Replication Fig 4b PSD"></picture>
+<picture><source media="(prefers-color-scheme: dark)" srcset="images/4b/training_psd_v54_dark.png"><img src="images/4b/training_psd_v54.png" alt="Replication Fig 4b PSD"></picture>
 
 <!-- caption-4b:start -->
-**Caption:** 10 episodes, 45 Hz fixed_mean_pattern (Fig 4a paired run), seed 0, source series.json, v53, reward ep0=-94.4 ep9=-12.5, rise_ep=4, psd 0.446→0.402, gate pass (2026-10-23)
+**Caption:** 10 episodes, 45 Hz fixed_mean_pattern (Fig 4a paired run), seed 0, source series.json, v54, reward ep0=-94.4 ep9=-12.5, rise_ep=4, psd 0.446→0.402, gate pass (2026-10-23)
 
 **Manifest:** `artifacts/figures/papers/mehregan/4b/manifest.json`
 <!-- caption-4b:end -->

diff --git a/docs/controllers/sea-dbs/figures/5a.md b/docs/controllers/sea-dbs/figures/5a.md
@@ -30,15 +30,15 @@ Both decline; SEA steeper (~1.7–2× Baseline drop) with a mid plateau ~steps 5
 
 ### Replication
 
-<picture><source media="(prefers-color-scheme: dark)" srcset="images/5a/inference_50hz_v28_dark.png"><img src="images/5a/inference_50hz_v28.png" alt="Replication Fig 5a"></picture>
+<picture><source media="(prefers-color-scheme: dark)" srcset="images/5a/inference_50hz_v29_dark.png"><img src="images/5a/inference_50hz_v29.png" alt="Replication Fig 5a"></picture>
 
 <!-- caption-5a:start -->
-**Caption:** Inference GPi beta PSD vs step @ 50 Hz (seed 0, argmax actions, training plant setup); pass=False; Baseline vs SEA-DBS. (v28)
+**Caption:** Inference GPi beta PSD vs step @ 50 Hz (seed 0, argmax actions, training plant setup); pass=False; Baseline vs SEA-DBS. (v29)
 
 **Manifest:** `artifacts/figures/papers/ravivarapu/5a/manifest.json`
 <!-- caption-5a:end -->
 
-**Status:** Fail (rep v28) (`paper_end_below_baseline, paper_steeper_drop, early_mae_baseline, baseline_drop_near_paper`). Manifest `artifacts/figures/papers/ravivarapu/5a/manifest.json`.
+**Status:** Fail (rep v29) (`paper_end_below_baseline, paper_steeper_drop, early_mae_baseline, baseline_drop_near_paper`). Manifest `artifacts/figures/papers/ravivarapu/5a/manifest.json`.
 
 Replication PNGs overlay digitized paper curves from
 `artifacts/figures/papers/ravivarapu/paper_digitization/curves_fig5a.json`

diff --git a/docs/controllers/sea-dbs/figures/5b.md b/docs/controllers/sea-dbs/figures/5b.md
@@ -22,15 +22,15 @@ Digitized (sort-by-x): start ~462; end Baseline ~398–418, SEA ~388–408. Cros
 
 ### Replication
 
-<picture><source media="(prefers-color-scheme: dark)" srcset="images/5b/inference_30hz_v28_dark.png"><img src="images/5b/inference_30hz_v28.png" alt="Replication Fig 5b"></picture>
+<picture><source media="(prefers-color-scheme: dark)" srcset="images/5b/inference_30hz_v29_dark.png"><img src="images/5b/inference_30hz_v29.png" alt="Replication Fig 5b"></picture>
 
 <!-- caption-5b:start -->
-**Caption:** Inference GPi beta PSD vs step @ 30 Hz (seed 0, argmax actions, training plant setup); pass=False; Baseline vs SEA-DBS. (v28)
+**Caption:** Inference GPi beta PSD vs step @ 30 Hz (seed 0, argmax actions, training plant setup); pass=False; Baseline vs SEA-DBS. (v29)
 
 **Manifest:** `artifacts/figures/papers/ravivarapu/5b/manifest.json`
 <!-- caption-5b:end -->
 
-**Status:** Fail (rep v28) (`baseline_declines, paper_declines, paper_end_below_baseline, paper_steeper_drop`). Manifest `artifacts/figures/papers/ravivarapu/5b/manifest.json`.
+**Status:** Fail (rep v29) (`baseline_declines, paper_declines, paper_end_below_baseline, paper_steeper_drop`). Manifest `artifacts/figures/papers/ravivarapu/5b/manifest.json`.
 
 ## How to reproduce
 
